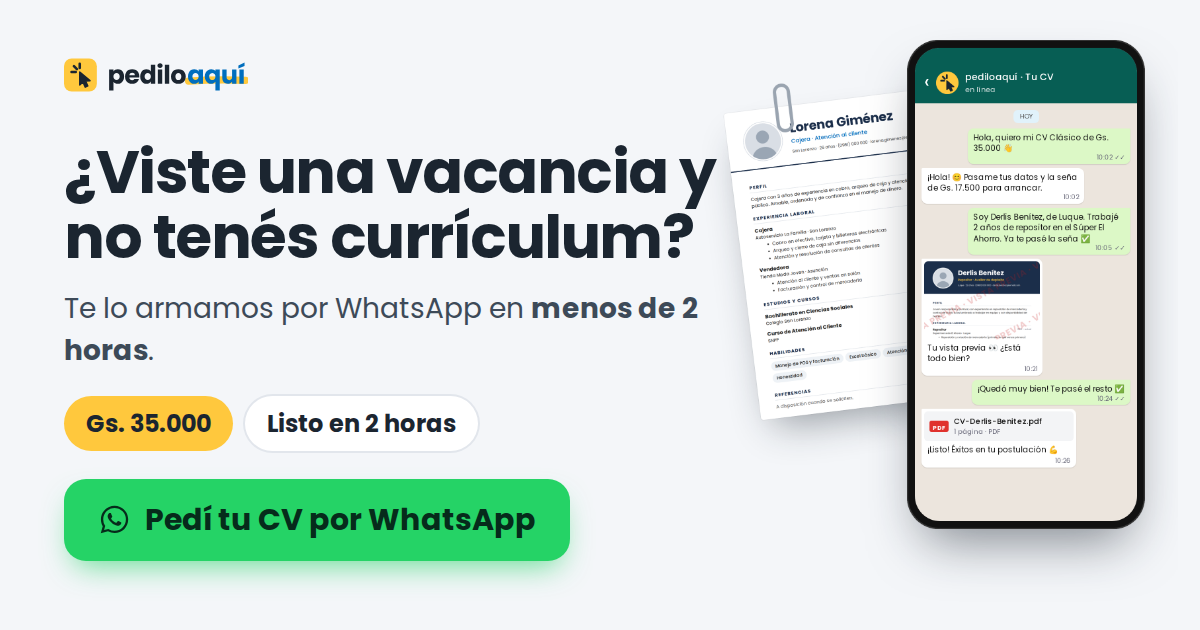
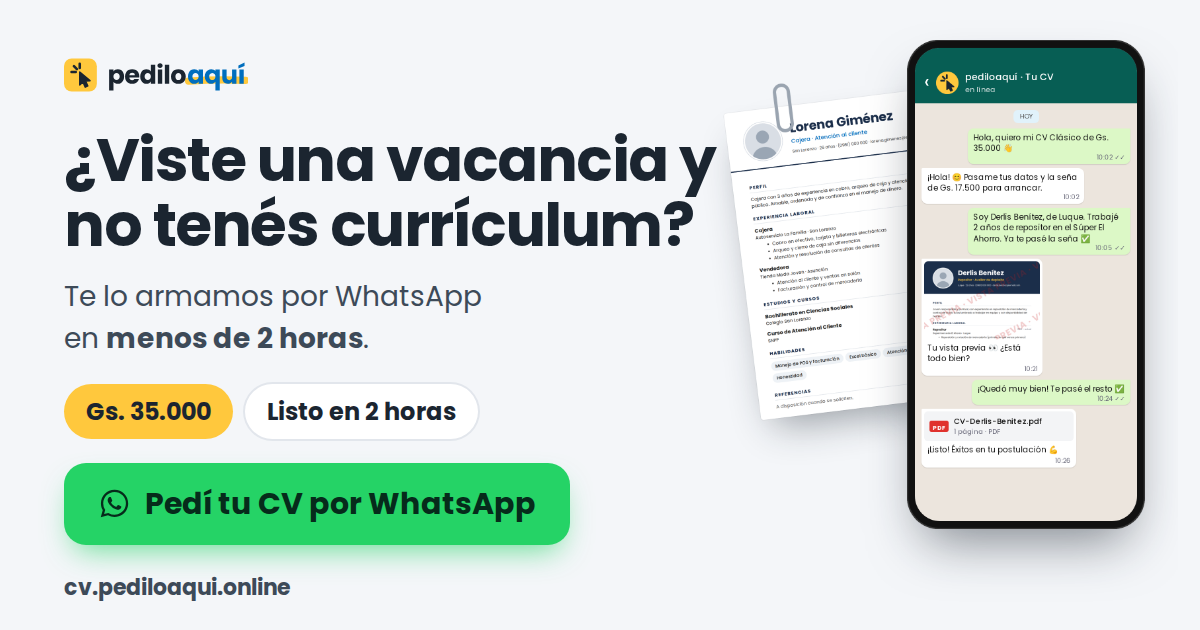
feat: actualizar dominio a cv.pediloaqui.online y optimizar vista previa social

Changed region(s): [[0.0308, 0.6032, 0.4933, 0.9651], [0.0308, 0.2111, 0.6167, 0.4222], [0.0308, 0.4524, 0.5858, 0.573]]

diff --git a/index.html b/index.html
@@ -9,9 +9,9 @@
     <link rel="icon" href="/favicon.ico" sizes="any" />
     <link rel="apple-touch-icon" href="/apple-touch-icon.png" />
     <link rel="manifest" href="/site.webmanifest" />
-    <link rel="canonical" href="https://tucv.pediloaqui.online/" />
+    <link rel="canonical" href="https://cv.pediloaqui.online/" />
 
-    <title>Tu currículum por WhatsApp en menos de 2 horas | tucv.pediloaqui.online</title>
+    <title>Tu currículum por WhatsApp en menos de 2 horas | cv.pediloaqui.online</title>
     <meta
       name="description"
       content="¿Viste una vacancia y no tenés currículum? Pasanos tus datos por WhatsApp y te lo armamos en menos de 2 horas, listo para imprimir o enviar. Gs. 35.000: mitad para empezar, mitad al recibir."
@@ -26,8 +26,10 @@
     />
     <meta property="og:type" content="website" />
     <meta property="og:locale" content="es_PY" />
-    <meta property="og:url" content="https://tucv.pediloaqui.online/" />
-    <meta property="og:image" content="https://tucv.pediloaqui.online/og-image.png" />
+    <meta property="og:url" content="https://cv.pediloaqui.online/" />
+    <meta property="og:image" content="https://cv.pediloaqui.online/og-cv.jpg" />
+    <meta property="og:image:secure_url" content="https://cv.pediloaqui.online/og-cv.jpg" />
+    <meta property="og:image:type" content="image/jpeg" />
     <meta property="og:image:width" content="1200" />
     <meta property="og:image:height" content="630" />
     <meta
@@ -41,7 +43,7 @@
       name="twitter:description"
       content="Te lo armamos por WhatsApp en menos de 2 horas. Gs. 35.000."
     />
-    <meta name="twitter:image" content="https://tucv.pediloaqui.online/og-image.png" />
+    <meta name="twitter:image" content="https://cv.pediloaqui.online/og-cv.jpg" />
 
     <link rel="preconnect" href="https://fonts.googleapis.com" />
     <link rel="preconnect" href="https://fonts.gstatic.com" crossorigin />
@@ -62,13 +64,13 @@
         "name": "Armado de currículum por WhatsApp",
         "serviceType": "Redacción y diseño de currículum vitae",
         "description": "Armamos tu currículum por WhatsApp en menos de 2 horas. PDF listo para imprimir o enviar. Seña del 50 % para empezar, el resto al recibir.",
-        "url": "https://tucv.pediloaqui.online/",
+        "url": "https://cv.pediloaqui.online/",
         "areaServed": { "@type": "Country", "name": "Paraguay" },
         "provider": {
           "@type": "Organization",
           "name": "pediloaquí",
-          "url": "https://tucv.pediloaqui.online/",
-          "logo": "https://tucv.pediloaqui.online/icon-512.png",
+          "url": "https://cv.pediloaqui.online/",
+          "logo": "https://cv.pediloaqui.online/icon-512.png",
           "address": { "@type": "PostalAddress", "addressCountry": "PY" }
         },
         "offers": {

diff --git a/src/campanias.ts b/src/campanias.ts
@@ -1,13 +1,13 @@
 // ============================================================
 // RUBROS Y CAMPAÑAS
 // Cada anuncio apunta a la URL de su rubro:
-//   tucv.pediloaqui.online/                → general
-//   tucv.pediloaqui.online/repositor
-//   tucv.pediloaqui.online/cajero
-//   tucv.pediloaqui.online/chofer
-//   tucv.pediloaqui.online/guardia
-//   tucv.pediloaqui.online/primer-empleo
-//   tucv.pediloaqui.online/encargado
+//   cv.pediloaqui.online/                → general
+//   cv.pediloaqui.online/repositor
+//   cv.pediloaqui.online/cajero
+//   cv.pediloaqui.online/chofer
+//   cv.pediloaqui.online/guardia
+//   cv.pediloaqui.online/primer-empleo
+//   cv.pediloaqui.online/encargado
 //
 // Opcional: agregá ?ref=AN1 a la URL del anuncio. El código viaja en el
 // mensaje de WhatsApp y así sabés qué anuncio te trajo cada cliente.

diff --git a/src/config.ts b/src/config.ts
@@ -5,7 +5,7 @@
 /** Número de WhatsApp, formato internacional sin "+" ni espacios (ej: 595981123456). */
 export const WHATSAPP_NUMBER = "595984177265";
 
-export const DOMINIO = "tucv.pediloaqui.online";
+export const DOMINIO = "cv.pediloaqui.online";
 
 /** Tiempo de entrega que se promete (CV Clásico). */
 export const ENTREGA = "menos de 2 horas";

diff --git a/README.md b/README.md
@@ -1,16 +1,17 @@
 # Landing Page — Confección de Currículums
 
-Landing page moderna y de alta conversión desarrollada para la oferta de servicios de diseño y redacción de currículums profesionales, con contacto directo e integración vía WhatsApp.
+Landing page moderna y de alta conversión para la oferta de servicios de diseño y redacción de currículums profesionales, con contacto directo e integración vía WhatsApp.
 
 ---
 
 ## Características
 
-- **Diseño orientado a conversión:** Interfaz atractiva y optimizada para dispositivos móviles (mobile-first).
-- **Segmentación por rubros:** Soporte de rutas dinámicas para campañas específicas según el área laboral del postulante.
+- **Diseño orientado a conversión:** Interfaz responsive optimizada para dispositivos móviles (mobile-first).
+- **Segmentación por rubros:** Rutas dinámicas dedicadas para anuncios según el área laboral del postulante.
 - **Integración con WhatsApp:** Generación automática de mensajes personalizados y seguimiento de parámetros de referencia (`?ref=`).
-- **Disponibilidad en tiempo real:** Detección automática del estado del servicio ("Atendiendo ahora" o próximo horario de apertura) según la hora local.
-- **Rendimiento y SEO:** Carga ultrarrápida, metaetiquetas Open Graph completas, favicon multirresolución y soporte para Pixel de seguimiento.
+- **Disponibilidad en tiempo real:** Detección automática del estado de atención según la hora local.
+- **Optimización para compartir (Open Graph):** Imagen de vista previa y metadatos optimizados para WhatsApp y redes sociales.
+- **Rendimiento:** Carga rápida construida como SPA con Vite y React 19.
 
 ---
 
@@ -18,7 +19,7 @@ Landing page moderna y de alta conversión desarrollada para la oferta de servic
 
 - **Framework:** [React 19](https://react.dev/)
 - **Lenguaje:** [TypeScript](https://www.typescriptlang.org/)
-- **Empaquetador y entorno:** [Vite](https://vite.dev/)
+- **Empaquetador:** [Vite](https://vite.dev/)
 - **Estilos:** [Tailwind CSS v4](https://tailwindcss.com/)
 - **Enrutamiento:** [React Router](https://reactrouter.com/)
 
@@ -68,11 +69,11 @@ Landing page moderna y de alta conversión desarrollada para la oferta de servic
 ## Estructura del Proyecto
 
 ```text
-├── public/              # Favicons, manifest, imágenes sociales y estáticos
+├── public/              # Favicons, manifest, imágenes sociales (og-cv.jpg) y estáticos
 ├── scripts/             # Herramientas para generación y optimización de assets
 ├── src/
 │   ├── assets/          # Imágenes de ejemplos de CV, logos y recursos visuales
-│   ├── pages/           # Vistas principales (Home, NotFound, etc.)
+│   ├── pages/           # Vistas principales (Home, NotFound)
 │   ├── campanias.ts     # Configuración de titulares y textos por cada rubro
 │   ├── config.ts        # Datos del servicio (contacto, precios, horarios, entregas)
 │   ├── styles.css       # Configuración global y tokens de estilo
@@ -86,19 +87,30 @@ Landing page moderna y de alta conversión desarrollada para la oferta de servic
 
 ## Configuración del Servicio
 
-Toda la parametrización del negocio se gestiona de forma centralizada en `src/config.ts`:
+La parametrización del negocio se gestiona de forma centralizada en `src/config.ts`:
 
-- **Canal de atención:** Número y enlace directo para recepción de solicitudes vía WhatsApp.
-- **Servicios y precios:** Catálogo de opciones de CV, detalles incluidos y extras disponibles.
-- **Horarios de atención:** Franja horaria para el indicador dinámico de respuesta en la cabecera.
+- **Canal de atención:** Número y enlaces directos de WhatsApp.
+- **Dominio:** Configuración del dominio de producción (`cv.pediloaqui.online`).
+- **Servicios y precios:** Opciones de currículum, servicios adicionales y condiciones.
+- **Horarios de atención:** Franja horaria para el indicador dinámico de cabecera.
 - **Métodos de pago:** Opciones y modalidades aceptadas.
+
+---
+
+## Vista Previa al Compartir (Open Graph)
+
+La imagen social para WhatsApp y redes se ubica en `public/og-cv.jpg` (1200×630 píxeles, optimizada para rápida previsualización).
+
+Las etiquetas Open Graph en `index.html` están configuradas para el dominio de producción (`https://cv.pediloaqui.online/`). Tras publicar o actualizar:
+1. Validar la URL en el depurador de Facebook/Meta para refrescar la caché.
+2. Si WhatsApp conserva en caché la vista previa anterior, puede probarse compartiendo con un parámetro de versión (ej. `?v=2`).
 
 ---
 
 ## Despliegue
 
-La aplicación es una Single Page Application (SPA). Al desplegar en plataformas como **Cloudflare Pages**, **Vercel** o **Netlify**:
+La aplicación es una Single Page Application (SPA):
 
-1. Ejecutar el comando de construcción: `npm run build`
-2. Configurar la carpeta de salida (output directory): `dist`
-3. Asegurar la regla de reescritura (*rewrite*) para que todas las rutas apunten a `/index.html`.
+1. Ejecutar la compilación: `npm run build`
+2. Carpeta de publicación (output directory): `dist`
+3. Configurar la regla de reescritura (*rewrite*) para que todas las rutas se dirijan a `/index.html`.
